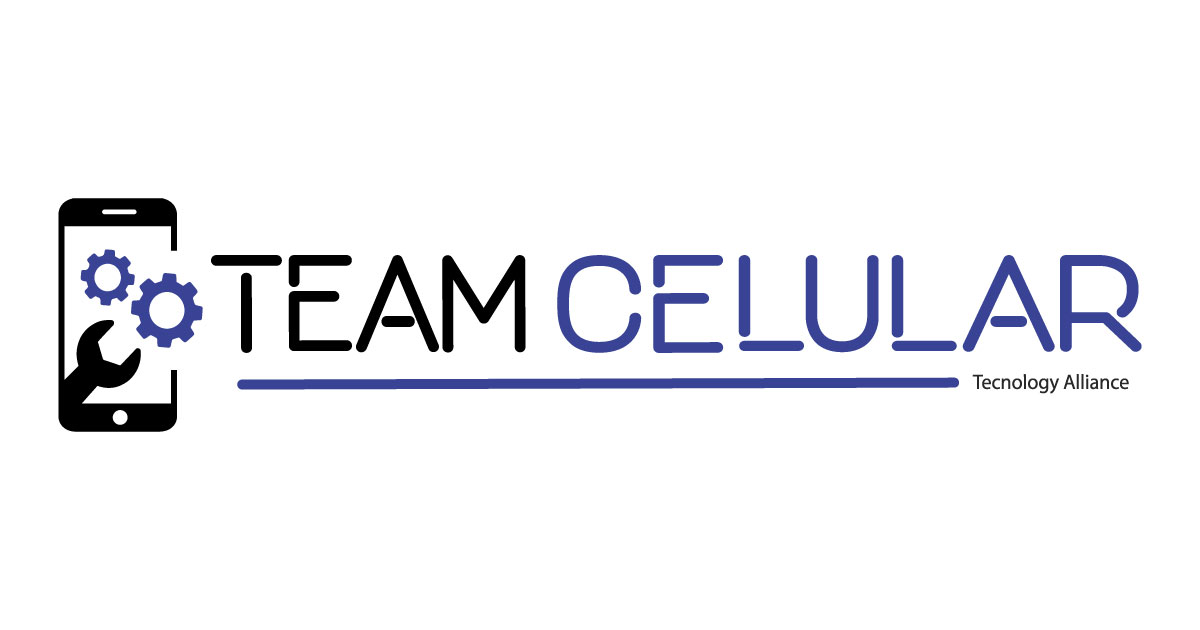
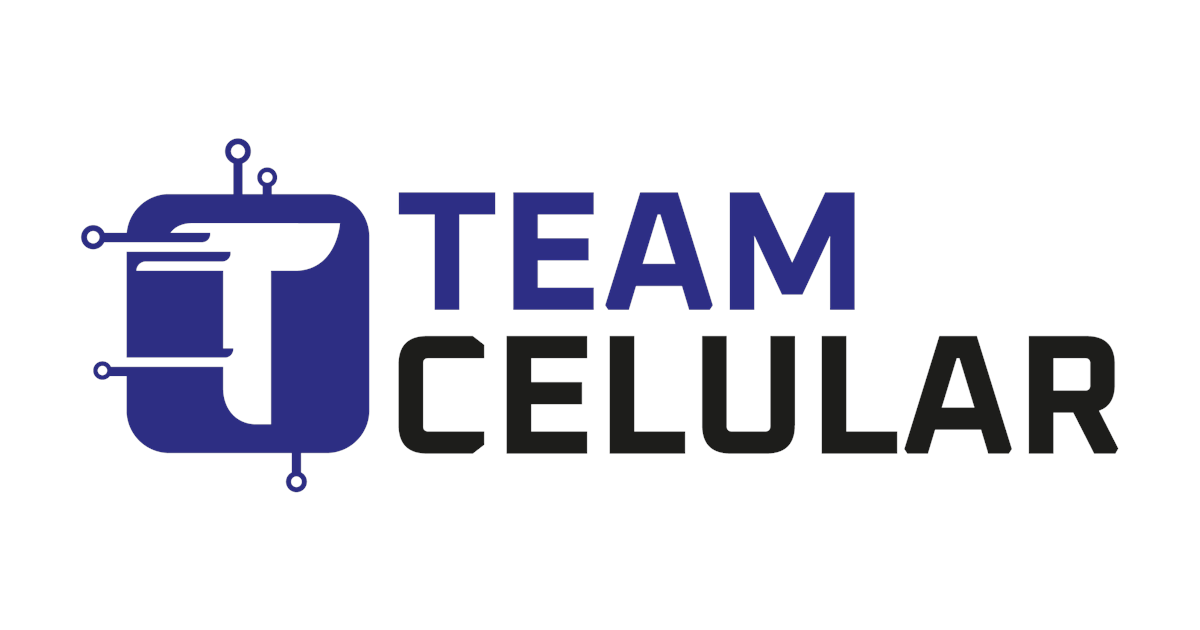
Update branding assets and metadata images
Replaced old logo and icon images with new brand assets across the project. Updated manifest and metadata to use new PNG icons and opengraph image for previews. Refactored footer and navbar components to display new brand images and support dark/light modes. Improves consistency and visual identity site-wide.

Changed region(s): [[0.0308, 0.2111, 0.9558, 0.7841]]

diff --git a/src/app/guias/mantenimiento-preventivo-celulares/page.tsx b/src/app/guias/mantenimiento-preventivo-celulares/page.tsx
@@ -58,7 +58,7 @@ export const metadata: Metadata = {
     locale: "es_AR",
     images: [
       {
-        url: "https://teamcelular.com/images/teamcelular.webp",
+        url: "https://teamcelular.com/opengraph-image.png",
         width: 1200,
         height: 630,
         alt: "Mantenimiento Preventivo de Celulares - Team Celular",
@@ -72,7 +72,7 @@ export const metadata: Metadata = {
     card: "summary_large_image",
     title: "Mantenimiento Preventivo | Team Celular",
     description: "Aprende a cuidar tu smartphone con rutinas profesionales",
-    images: ["https://teamcelular.com/images/teamcelular.webp"],
+    images: ["https://teamcelular.com/opengraph-image.png"],
   },
 };
 
@@ -188,7 +188,7 @@ export default function PreventiveMaintenanceGuide() {
         publishedTime="2024-04-05T00:00:00Z"
         modifiedTime="2025-12-11T00:00:00Z"
         authorName="Team Celular"
-        image="https://teamcelular.com/images/teamcelular.webp"
+        image="https://teamcelular.com/opengraph-image.png"
         url="https://teamcelular.com/guias/mantenimiento-preventivo-celulares"
       />
       <article className="w-full max-w-6xl space-y-16">
@@ -521,7 +521,7 @@ export default function PreventiveMaintenanceGuide() {
               "@type": "HowTo",
               "name": "Mantenimiento Preventivo de Celulares",
               "description": "Guía completa de mantenimiento preventivo para smartphones con checklist profesional y consejos de expertos.",
-              "image": "https://teamcelular.com/images/teamcelular.webp",
+              "image": "https://teamcelular.com/opengraph-image.png",
               "totalTime": "PT6M",
               "supply": ["Smartphone", "Paño de microfibra", "Software de diagnóstico"],
               "tool": ["Aire comprimido", "IPA 99%", "Microscopio (para servicio profesional)"],

diff --git a/src/components/navbars/NavbarNUI.jsx b/src/components/navbars/NavbarNUI.jsx
@@ -32,18 +32,25 @@ export default function NavbarNUI() {
                     <NavbarMenuToggle className="w-12 h-12" />
                 </NavbarItem>
                 <NavbarItem className="flex items-center">
-                    <Link href="/" className="text-inherit ">
+                    <Link href="/" className="flex items-center gap-3 text-inherit">
                         <Image
-                            className="w-11 h-15"
-                            src="/images/teamcelular.webp"
-                            alt="Logo de Team Celular reparacion celulares"
-                            width={100}
-                            height={200}
-                            sizes="44px"
+                            className="h-10 w-auto dark:hidden"
+                            src="/images/brand/imagotipo-light.png"
+                            alt="Team Celular"
+                            width={1725}
+                            height={591}
+                            sizes="(max-width: 640px) 140px, 170px"
+                            priority
                         />
-                        <p className="font-bold text-white text-xl text-inherit hidden lg:flex">
-                            Team Celular
-                        </p>
+                        <Image
+                            className="hidden h-10 w-auto dark:block"
+                            src="/images/brand/imagotipo-dark.png"
+                            alt="Team Celular"
+                            width={1725}
+                            height={591}
+                            sizes="(max-width: 640px) 140px, 170px"
+                            priority
+                        />
                     </Link>
                 </NavbarItem>
             </NavbarContent>

diff --git a/src/components/footer/FooterNUI.tsx b/src/components/footer/FooterNUI.tsx
@@ -1,7 +1,4 @@
 import React from "react";
-// fonts
-import { Sora } from "next/font/google";
-const sora = Sora({ subsets: ["latin"], weight: "300" });
 // icons
 import {
   BsFacebook,
@@ -83,16 +80,31 @@ export default function FooterNUI() {
           <div className="flex flex-col space-y-4">
             <div className="flex items-center space-x-3 mb-2">
               <Image
-                src="/celu.webp"
-                alt="Team Celular Logo"
-                width={40}
-                height={40}
-                className="rounded-lg"
+                src="/images/brand/isotipo.png"
+                alt="Isotipo de Team Celular"
+                width={1317}
+                height={1617}
+                className="h-10 w-auto"
                 sizes="40px"
               />
-              <h3 className={`${sora.className} text-2xl font-bold`}>
-                TEAM CELULAR
-              </h3>
+              <div className="flex items-center">
+                <Image
+                  src="/images/brand/logotipo-light.png"
+                  alt="Team Celular"
+                  width={1599}
+                  height={437}
+                  className="h-10 w-auto dark:hidden"
+                  sizes="160px"
+                />
+                <Image
+                  src="/images/brand/logotipo-dark.png"
+                  alt="Team Celular"
+                  width={1599}
+                  height={467}
+                  className="hidden h-10 w-auto dark:block"
+                  sizes="160px"
+                />
+              </div>
             </div>
             <p className="text-sm text-slate-300">
               Más de 15 años de experiencia en reparación profesional de

diff --git a/src/app/guias/reparacion-iphone-buenos-aires/page.tsx b/src/app/guias/reparacion-iphone-buenos-aires/page.tsx
@@ -60,7 +60,7 @@ export const metadata: Metadata = {
     locale: "es_AR",
     images: [
       {
-        url: "https://teamcelular.com/images/teamcelular.webp",
+        url: "https://teamcelular.com/opengraph-image.png",
         width: 1200,
         height: 630,
         alt: "Reparación de iPhone - Team Celular Buenos Aires",
@@ -74,7 +74,7 @@ export const metadata: Metadata = {
     card: "summary_large_image",
     title: "Reparación de iPhone | Team Celular Buenos Aires",
     description: "Servicio técnico especializado en iPhone con repuestos originales y garantía escrita",
-    images: ["https://teamcelular.com/images/teamcelular.webp"],
+    images: ["https://teamcelular.com/opengraph-image.png"],
   },
 };
 
@@ -235,7 +235,7 @@ export default function IphoneRepairGuide() {
         publishedTime="2024-01-15T00:00:00Z"
         modifiedTime="2025-12-11T00:00:00Z"
         authorName="Team Celular"
-        image="https://teamcelular.com/images/teamcelular.webp"
+        image="https://teamcelular.com/opengraph-image.png"
         url="https://teamcelular.com/guias/reparacion-iphone-buenos-aires"
       />
       <article className="w-full max-w-6xl space-y-16">

diff --git a/src/app/guias/microelectronica-reballing-caba/page.tsx b/src/app/guias/microelectronica-reballing-caba/page.tsx
@@ -53,7 +53,7 @@ export const metadata: Metadata = {
     locale: "es_AR",
     images: [
       {
-        url: "https://teamcelular.com/images/teamcelular.webp",
+        url: "https://teamcelular.com/opengraph-image.png",
         width: 1200,
         height: 630,
         alt: "Microelectrónica y Reballing BGA - Team Celular",
@@ -67,7 +67,7 @@ export const metadata: Metadata = {
     card: "summary_large_image",
     title: "Microelectrónica y Reballing BGA | Team Celular",
     description: "Reparación avanzada de placas y chips BGA con equipamiento profesional",
-    images: ["https://teamcelular.com/images/teamcelular.webp"],
+    images: ["https://teamcelular.com/opengraph-image.png"],
   },
 };
 
@@ -176,7 +176,7 @@ export default function MicroelectronicsGuide() {
         publishedTime="2024-02-20T00:00:00Z"
         modifiedTime="2025-12-11T00:00:00Z"
         authorName="Team Celular"
-        image="https://teamcelular.com/images/teamcelular.webp"
+        image="https://teamcelular.com/opengraph-image.png"
         url="https://teamcelular.com/guias/microelectronica-reballing-caba"
       />
       <article className="w-full max-w-6xl space-y-16">

diff --git a/src/app/guias/soporte-empresas-servicio-tecnico/page.tsx b/src/app/guias/soporte-empresas-servicio-tecnico/page.tsx
@@ -60,7 +60,7 @@ export const metadata: Metadata = {
     locale: "es_AR",
     images: [
       {
-        url: "https://teamcelular.com/images/teamcelular.webp",
+        url: "https://teamcelular.com/opengraph-image.png",
         width: 1200,
         height: 630,
         alt: "Servicio Técnico Corporativo - Team Celular",
@@ -74,7 +74,7 @@ export const metadata: Metadata = {
     card: "summary_large_image",
     title: "Servicio Técnico para Empresas | Team Celular",
     description: "Soporte técnico especializado para empresas con SLA garantizado",
-    images: ["https://teamcelular.com/images/teamcelular.webp"],
+    images: ["https://teamcelular.com/opengraph-image.png"],
   },
 };
 
@@ -196,7 +196,7 @@ export default function BusinessSupportGuide() {
         publishedTime="2024-03-10T00:00:00Z"
         modifiedTime="2025-12-11T00:00:00Z"
         authorName="Team Celular"
-        image="https://teamcelular.com/images/teamcelular.webp"
+        image="https://teamcelular.com/opengraph-image.png"
         url="https://teamcelular.com/guias/soporte-empresas-servicio-tecnico"
       />
       <article className="w-full max-w-6xl space-y-16">

diff --git a/src/app/layout.tsx b/src/app/layout.tsx
@@ -80,7 +80,7 @@ export const metadata: Metadata = {
         description:
             "Reparación profesional de celulares con repuestos originales y garantía escrita. Presupuestos sin cargo.",
         images: {
-            url: `${SITE_URL}/images/teamcelular.webp`,
+            url: `${SITE_URL}/opengraph-image.png`,
             alt: "Team Celular - Servicio Técnico de Celulares en Buenos Aires",
         },
     },
@@ -95,11 +95,11 @@ export const metadata: Metadata = {
             "Laboratorio especializado en reparación de smartphones, tablets y notebooks con microelectrónica avanzada, repuestos originales y garantía escrita en Buenos Aires.",
         images: [
             {
-                url: `${SITE_URL}/images/teamcelular.webp`,
+                url: `${SITE_URL}/opengraph-image.png`,
                 width: 1200,
                 height: 630,
                 alt: "Team Celular - Laboratorio de Reparación de Celulares en Buenos Aires",
-                type: "image/webp",
+                type: "image/png",
             },
         ],
     },

diff --git a/src/app/productos/page.tsx b/src/app/productos/page.tsx
@@ -25,7 +25,7 @@ export const metadata: Metadata = {
     locale: "es_AR",
     images: [
       {
-        url: "https://teamcelular.com/images/teamcelular.webp",
+        url: "https://teamcelular.com/opengraph-image.png",
         width: 1200,
         height: 630,
         alt: "Team Celular - Productos y Accesorios",
@@ -36,7 +36,7 @@ export const metadata: Metadata = {
     card: "summary_large_image",
     title: "Productos y Accesorios | Team Celular",
     description: "Accesorios y repuestos de calidad para tu celular",
-    images: ["https://teamcelular.com/images/teamcelular.webp"],
+    images: ["https://teamcelular.com/opengraph-image.png"],
   },
 }
 export default function productos() {

diff --git a/src/app/guias/page.tsx b/src/app/guias/page.tsx
@@ -123,7 +123,7 @@ export const metadata: Metadata = {
     locale: "es_AR",
     images: [
       {
-        url: "https://teamcelular.com/images/teamcelular.webp",
+        url: "https://teamcelular.com/opengraph-image.png",
         width: 1200,
         height: 630,
         alt: "Team Celular - Guías Técnicas",
@@ -134,7 +134,7 @@ export const metadata: Metadata = {
     card: "summary_large_image",
     title: "Guías Técnicas de Reparación | Team Celular",
     description: "Aprende de expertos en reparación de celulares en Buenos Aires",
-    images: ["https://teamcelular.com/images/teamcelular.webp"],
+    images: ["https://teamcelular.com/opengraph-image.png"],
   },
 };
 

diff --git a/src/app/presupuesto-reparacion/page.tsx b/src/app/presupuesto-reparacion/page.tsx
@@ -44,7 +44,7 @@ export const metadata: Metadata = {
     type: "website",
     images: [
       {
-        url: "https://teamcelular.com/images/teamcelular.webp",
+        url: "https://teamcelular.com/opengraph-image.png",
         width: 1200,
         height: 630,
         alt: "Laboratorio de Team Celular en Recoleta",
@@ -56,7 +56,7 @@ export const metadata: Metadata = {
     title: "Pedí tu presupuesto de reparación en Team Celular",
     description:
       "Respuesta en menos de 24 hs con garantía escrita y repuestos premium.",
-    images: ["https://teamcelular.com/images/teamcelular.webp"],
+    images: ["https://teamcelular.com/opengraph-image.png"],
   },
 };
 

diff --git a/src/app/zonas/almagro/page.tsx b/src/app/zonas/almagro/page.tsx
@@ -60,7 +60,7 @@ export const metadata: Metadata = {
     locale: "es_AR",
     images: [
       {
-        url: `${SITE_URL}/images/teamcelular.webp`,
+        url: `${SITE_URL}/opengraph-image.png`,
         width: 1200,
         height: 630,
         alt: `Team Celular - Arreglo de celulares en ${ZONE_NAME} (CABA)`,
@@ -72,7 +72,7 @@ export const metadata: Metadata = {
     title: `Arreglo de Celulares en ${ZONE_NAME} (CABA) | Team Celular`,
     description:
       "Arreglo de celulares con garantía escrita. Presupuesto rápido por WhatsApp o formulario.",
-    images: [`${SITE_URL}/images/teamcelular.webp`],
+    images: [`${SITE_URL}/opengraph-image.png`],
   },
 };
 

diff --git a/src/app/zonas/balvanera/page.tsx b/src/app/zonas/balvanera/page.tsx
@@ -60,7 +60,7 @@ export const metadata: Metadata = {
     locale: "es_AR",
     images: [
       {
-        url: `${SITE_URL}/images/teamcelular.webp`,
+        url: `${SITE_URL}/opengraph-image.png`,
         width: 1200,
         height: 630,
         alt: `Team Celular - Arreglo de celulares en ${ZONE_NAME} (CABA)`,
@@ -72,7 +72,7 @@ export const metadata: Metadata = {
     title: `Arreglo de Celulares en ${ZONE_NAME} (CABA) | Team Celular`,
     description:
       "Arreglo de celulares con garantía escrita. Presupuesto rápido por WhatsApp o formulario.",
-    images: [`${SITE_URL}/images/teamcelular.webp`],
+    images: [`${SITE_URL}/opengraph-image.png`],
   },
 };
 
